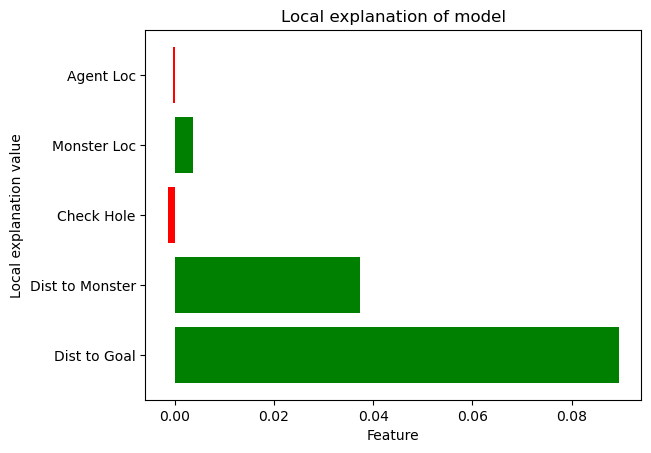
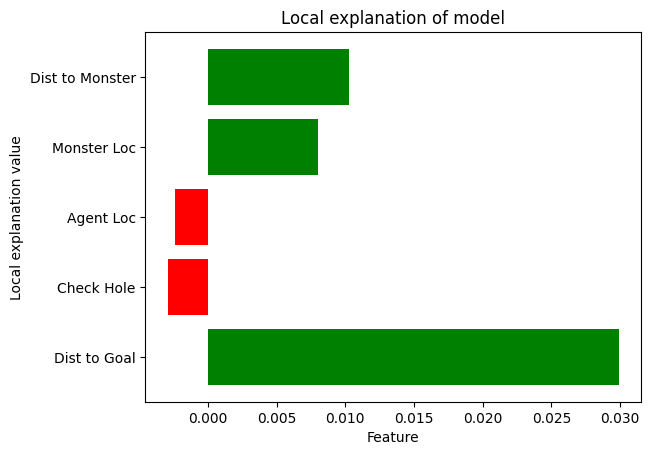
Change VLM to LLM

diff --git a/main_pipeline.py b/main_pipeline.py
@@ -33,26 +33,19 @@ def load_demo(folder, n_trajs,corrective = 'N'):
             if os.path.exists(path):
                 trajectory = pickle.load(open(path, 'rb'))
                 trajs.append(trajectory)
-        # print(trajs)
-        corrective_set = trajs[-5:]
+
+        corrective_set = trajs[-15:]
         
-        # print(corrective_set)
-        # sampling_set = trajs[:-5]
-        # for i in range(10):
-        sampled_set = np.random.choice(np.arange(len(trajs) - 5),size = 10,replace=False)
-        for i in sampled_set:
-            # print(trajs[i])
-            corrective_set += [trajs[i]]
-        
-        # print(corrective_set)
-        
+        # sampled_set = np.random.choice(np.arange(len(trajs) - 5),size = 10,replace=False)
+        # for i in sampled_set:
+        #     corrective_set += [trajs[i]]
         
         return corrective_set
         
         
     else:
         trajs = []
-        T = 15                                                                # Fix episode length
+        T = 15    
 
         for i in range(n_trajs):
             path = folder + '/trajectory_%d.pkl' % i
@@ -87,10 +80,7 @@ if __name__ == "__main__":
             # Set hyperparameters for Deep MaxEnt
             gamma = 0.99
             lr = 1e-2
-            if corrective_feedback=='Y':
-                n_iters = 5
-            else:
-                n_iters = 5
+            n_iters = 10
             rewards = deep_maxent_irl(feat_map, P_a, gamma, trajs, lr, n_iters,deterministic = is_deterministic,rounds = rounds)
             rewards = rewards.T.squeeze()  # Must be of shape (N,) where N is the number of states
 
@@ -105,19 +95,19 @@ if __name__ == "__main__":
             rewards = maxent_irl(feat_map, P_a, gamma, trajs, lr, n_iters)
 
         # compute optimal policy w.r.t. the learned rewards
-        values, trained_policy = value_iteration(P_a, rewards, gamma, error=0.1, deterministic=True)
+        values, trained_policy = value_iteration(P_a, rewards, gamma, error=0.1, deterministic=is_deterministic)
 
-        env_key = "AIzaSyDoq3vTbnObsbeh_6zJh1R3RloVP78rxxE"
-        genai.configure(api_key=env_key)
-        
-        model = genai.GenerativeModel('gemini-pro-vision')
+        # Access your API key as an environment variable.
+        genai.configure(api_key=os.environ['API_KEY'])
+        # Choose a model that's appropriate for your use case.
+        model = genai.GenerativeModel('gemini-1.5-flash')
 
         pict = PIL.Image.open('results/shapley_2_'+str(rounds)+'_.png')
         prompt = """We are training an inverse reinforcement learning model using Deep Max Entropy algorithm on the Wumpus World environment. The model uses small feedforward neural networks to learn the reward function from the given demonstrations. The training manual of the game given below has information about the environment.
 
         * TRAINING MANUAL * 
 
-        The game starts with the player at location [0,0] of the frozen lake grid world with the goal (treasure) located at far extent of the world e.g. [3,3] for the 4x4 environment.The player makes moves until they reach the goal or fall in a hole or gets eaten by the monster. Worlds will always have a path to the goal.
+        The game starts with the player at location [0,0] of the frozen lake grid world with the goal (treasure) located at far extent of the world e.g. [3,3] for the 4x4 environment.The player makes moves until they reach the goal or fall in a hole or gets eaten by the monster. There is always a path to the goal.
 
         Holes in the ice are distributed in set locations of [(1,1), (1,3), (2,3), (3,0)]. The monster starts at location (2,2). It chooses uniformly randomly whether it wants to proceed in an upward direction [(2,2), 1,2), (0,2)] or towards the left [(2,2), (2,1), (2,0]. 
 
@@ -154,18 +144,24 @@ if __name__ == "__main__":
         Additional features cannot be provided and you should not recommend providing more features. 
 
         Can you explain these values?
-        What features the robot is using to learn the reward function? Your response will help the demonstrator in understanding the robot learning better. Be careful about the x-axis in the plot. Values towards the left of 0 line are negative and towards the right are positive. How would you suggest these values should be modified to achieve the best reward function?
-        Be critical in your evaluation of how the demonstrator can improve the agent.
-        A performance of more than 0.8 winrate is ideal and further improvement might not be possible if it is not deterministic. 
-        Don't give more recommendations if it achieves desired winrate."""
+        What features the robot is using to learn the reward function? Your response will help the demonstrator in understanding the robot learning better. How would you suggest these values should be modified to achieve the best reward function?
+        Be critical in your evaluation of how the demonstrator can improve the agent. Remember positive distance value encourages the agent to increase the distance and negative distance value encourages it to decrease the distance."""
+
+        feature_shaps = pickle.load(open('/Users/rynaa/IRL_Project/new_results/shapley_values.pkl', 'rb'))
+
+        shap_values_prompt = ''
+        feature_names=['Agent Loc','Monster Loc','Dist to Hole','Dist to Monster','Dist to Goal']
+        for i in range(len(feature_names)):
+            shap_values_prompt += f'Feature - {feature_names[i]} has mean SHAP value of {feature_shaps[:,i].mean()} and standard deviation of {feature_shaps[:,i].std()}\n'
         
+        print("------------------------------------------------")
+        print(shap_values_prompt)
         print("------------------------------------------------")
         print("Results")
         np.save(f'trained_policy_{MAX_ENT_VERSION}', trained_policy)
         np.save(f'learned_reward_{MAX_ENT_VERSION}', rewards)
-        wins = eval.main(deterministic=is_deterministic,return_wins=True)
-        print("Win Rate : ",wins)
-        response = model.generate_content([prompt + "\n Winrate : "+str(wins),pict],stream= True)
+        eval.main(deterministic=is_deterministic,return_wins=False)
+        response = model.generate_content(prompt+shap_values_prompt)
         response.resolve()
         eval.main(deterministic=is_deterministic,render=1)
         

diff --git a/provide_demos.py b/provide_demos.py
@@ -104,4 +104,4 @@ def main(itraj = 0,num_demos = 15,deterministic = True):
                 break
             
 if __name__ == "__main__":
-    main(itraj = 0,num_demos = 15,deterministic=True)
+    main(itraj = 0,num_demos = 15,deterministic=False)
